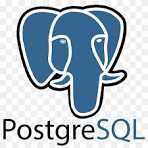
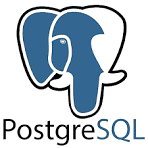
some design and color changes

diff --git a/src/index.css b/src/index.css
@@ -226,7 +226,7 @@
 }
 
 .simple-design {
-  background: linear-gradient(135deg, #262626, #9b9b9b);
+  background: linear-gradient(135deg, #000000, #686868);
   border: none;
   color: #555;
   display: flex;
@@ -236,8 +236,8 @@
 }
 
 .icon-wrapper img {
-  width: 50px;
-  height: 50px;
+  width: 60px;
+  height: 60px;
   margin-bottom: 10px;
   object-fit: contain;
 }
@@ -246,6 +246,6 @@
   font-size: 1rem;
   font-weight: 600;
   margin-top: 10px;
-  color: black;
+  color: rgb(231, 231, 231);
 }
 

diff --git a/src/assets/index.js b/src/assets/index.js
@@ -7,7 +7,7 @@ import github from "./github.png";
 import menu from "./menu.svg";
 import close from "./close.svg";
 
-import css from "./css.jpg";
+import css from "./css.png";
 import solidity from "./tech/solidity.png";
 import psql from "./tech/psql.png";
 import hardhat from "./tech/hardhat.png";
